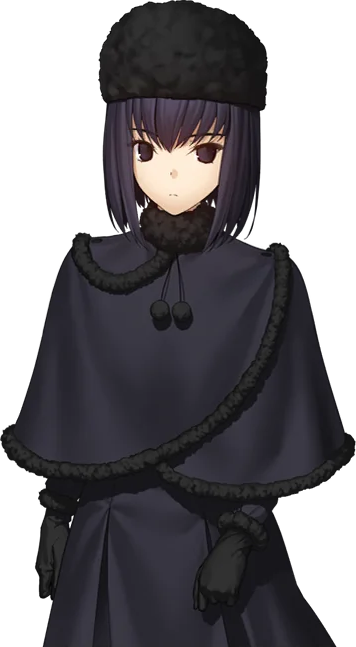
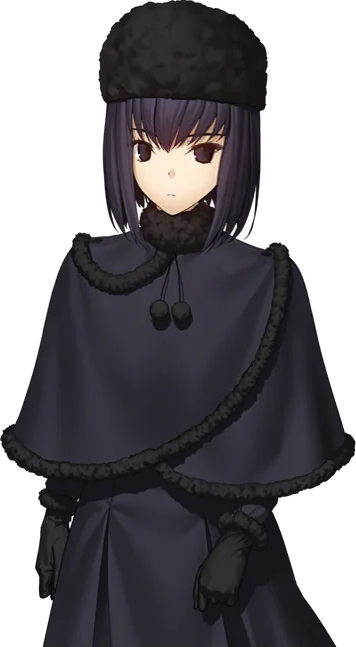
fix: 增强桌宠微左看转向幅度

Changed region(s): [[0.3708, 0.1855, 0.6489, 0.34], [0.6489, 0.34, 0.6798, 0.3709], [0.4944, 0.4019, 0.5253, 0.4328]]

diff --git a/tests/pet.test.js b/tests/pet.test.js
@@ -266,6 +266,9 @@ test('鼠标转向试验帧采用局部语义变形并保留透明边缘', () =>
   const script = fs.readFileSync(path.join(__dirname, '..', 'scripts', 'make-pet-look-pilot.py'), 'utf8');
   assert.ok(script.includes('add_face_yaw'), '脸部应使用独立的轻微偏转透视');
   assert.ok(script.includes('for eye_x in (151.0, 204.0)'), '双眼应拥有比头部更早的视线偏移');
+  assert.ok(script.includes('desired_shift = -4.6'), '脸部偏转必须达到肉眼可辨识的幅度');
+  assert.ok(script.includes('move_x=-1.75'), '眼神应明显领先脸部转向');
+  assert.ok(script.includes('move_y=1.15') && script.includes('move_y=-1.15'), '两侧肩线应提供可辨识的反向升降');
   assert.ok(script.includes('left_shoulder') && script.includes('right_shoulder'), '身体转向应包含两侧肩线配合');
   assert.ok(script.includes('premultiplied'), '透明素材重采样必须使用预乘 Alpha，避免黑边');
   assert.ok(!script.includes('Image.AFFINE'), '试验帧不应使用整图仿射变形');

diff --git a/scripts/make-pet-look-pilot.py b/scripts/make-pet-look-pilot.py
@@ -35,8 +35,8 @@ def add_face_yaw(dx, xx, yy):
     """以左脸侧为视觉支点，轻微收拢远侧脸，形成左转透视。"""
     cx, cy = 178.0, 169.0
     region = soft_ellipse(xx, yy, cx, cy, 55.0, 77.0, 1.15)
-    desired_shift = -2.6
-    horizontal_scale = 0.972
+    desired_shift = -4.6
+    horizontal_scale = 0.955
     inverse_offset = (xx - cx - desired_shift) / horizontal_scale - (xx - cx)
     dx += inverse_offset * region
 
@@ -82,25 +82,25 @@ def make_left_look(source):
     # 眼神比脸先多走一点，鼻尖和嘴只跟随半步，避免五官像贴纸般一起滑动。
     for eye_x in (151.0, 204.0):
         eye = soft_ellipse(xx, yy, eye_x, 153.0, 14.0, 10.0, 1.4)
-        add_shift(dx, dy, xx, yy, eye, move_x=-0.9)
+        add_shift(dx, dy, xx, yy, eye, move_x=-1.75)
     nose_mouth = soft_ellipse(xx, yy, 178.0, 184.0, 24.0, 28.0, 1.3)
-    add_shift(dx, dy, xx, yy, nose_mouth, move_x=-0.45)
+    add_shift(dx, dy, xx, yy, nose_mouth, move_x=-0.85)
 
     # 刘海内层产生小于一像素的视差，外轮廓保持稳定。
     inner_hair = soft_ellipse(xx, yy, 178.0, 125.0, 50.0, 36.0, 1.7)
-    add_shift(dx, dy, xx, yy, inner_hair, move_x=-0.55)
+    add_shift(dx, dy, xx, yy, inner_hair, move_x=-1.0)
 
     # 颈部和披风上半部跟随左转；位移在腰部前完全衰减。
     neck = soft_ellipse(xx, yy, 178.0, 238.0, 48.0, 42.0, 1.2)
-    add_shift(dx, dy, xx, yy, neck, move_x=-1.15)
+    add_shift(dx, dy, xx, yy, neck, move_x=-2.1)
     upper_body = soft_ellipse(xx, yy, 178.0, 315.0, 170.0, 128.0, 1.55)
-    add_shift(dx, dy, xx, yy, upper_body, move_x=-0.65)
+    add_shift(dx, dy, xx, yy, upper_body, move_x=-1.3)
 
     # 两侧肩线做相反的亚像素升降，给出身体绕竖轴微转的感觉。
     left_shoulder = soft_ellipse(xx, yy, 91.0, 278.0, 73.0, 52.0, 1.45)
     right_shoulder = soft_ellipse(xx, yy, 263.0, 278.0, 73.0, 52.0, 1.45)
-    add_shift(dx, dy, xx, yy, left_shoulder, move_y=0.65)
-    add_shift(dx, dy, xx, yy, right_shoulder, move_y=-0.65)
+    add_shift(dx, dy, xx, yy, left_shoulder, move_y=1.15)
+    add_shift(dx, dy, xx, yy, right_shoulder, move_y=-1.15)
 
     return warp_rgba_premultiplied(source, dx, dy)
 
